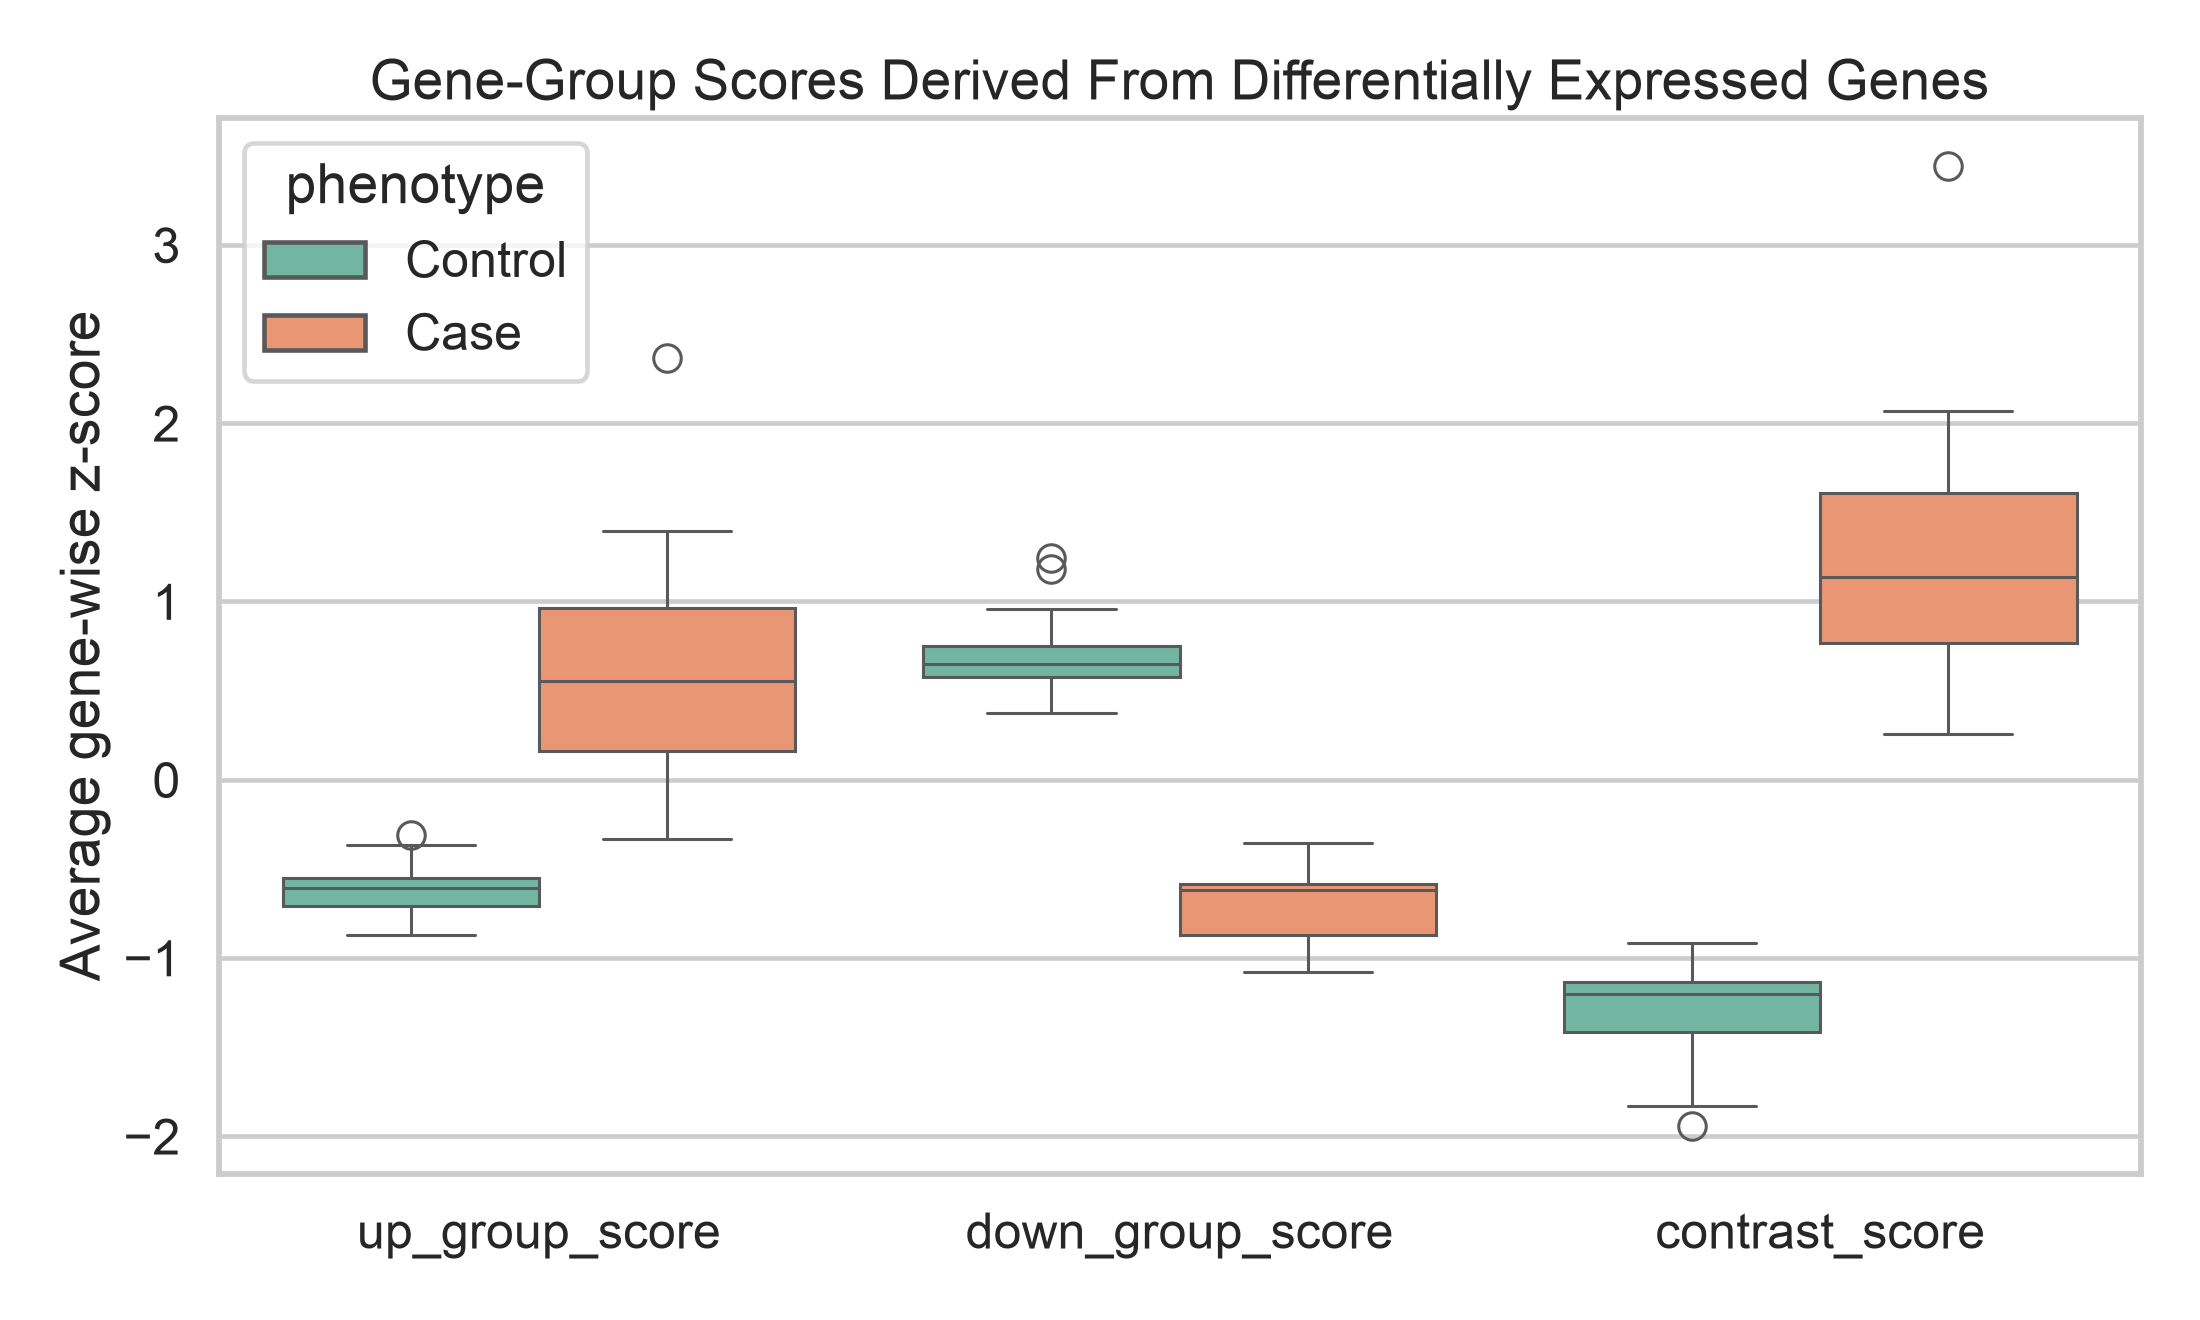
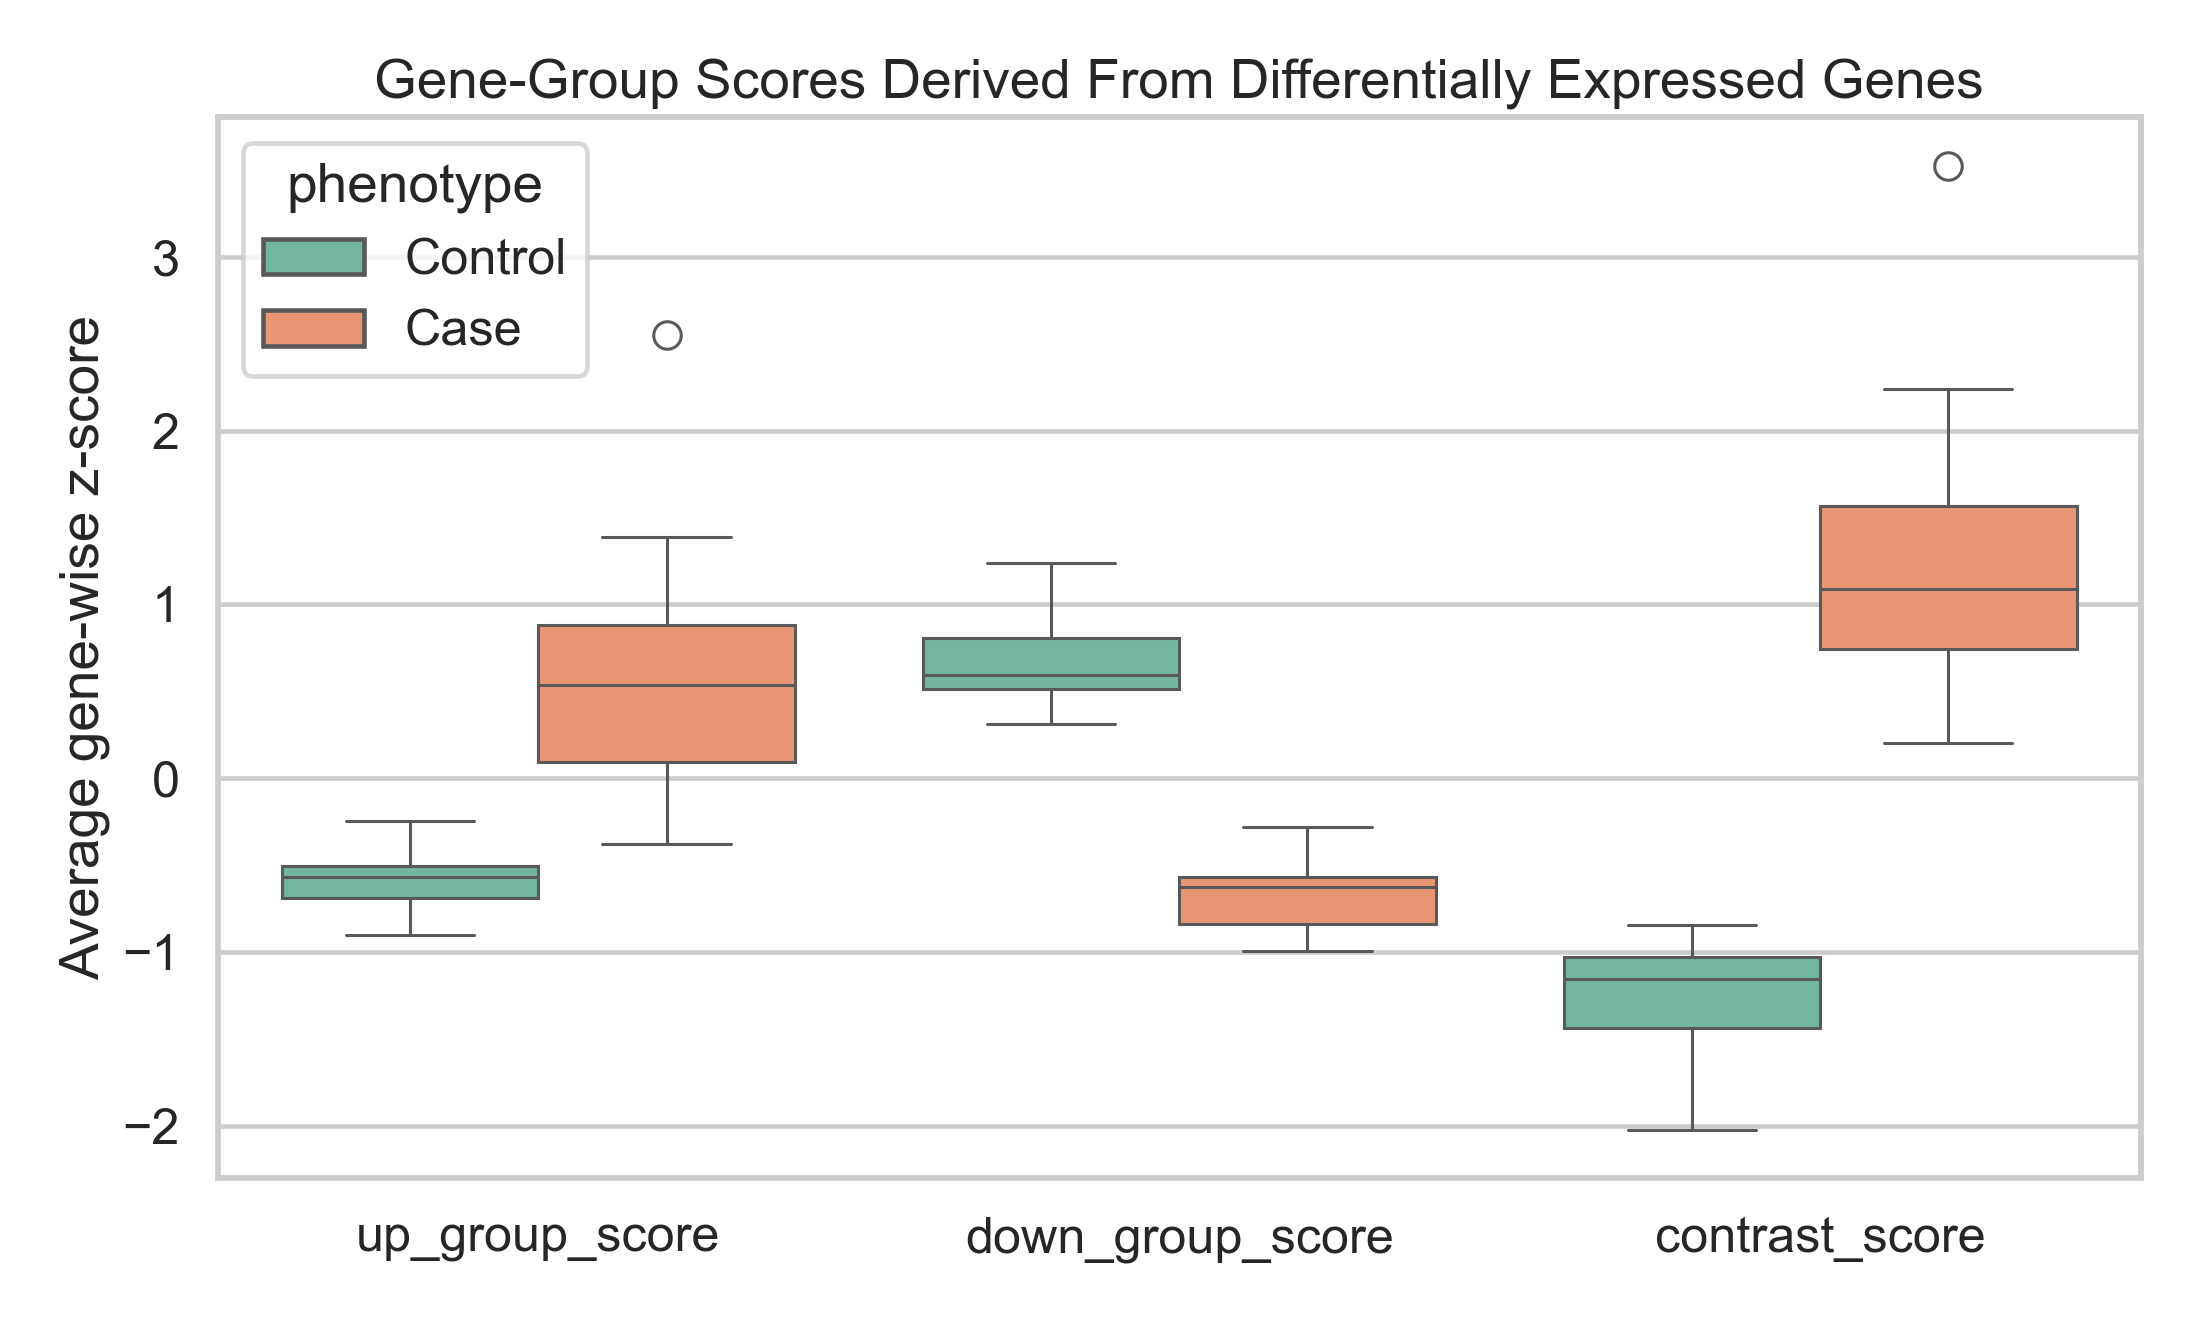
GSE38206 expression analysis results

diff --git a/PBMC/GSE38206/main.py b/PBMC/GSE38206/main.py
@@ -20,42 +20,42 @@ from analyze_cell_population_proxies import run_cell_proxy_analysis
 from run_qc_normalize_r import run_qc_normalization
 
 mapping_text = """
-GSM936718	S_PBMC_P1-0w_rep1
-GSM936719	S_PBMC_P1-8w_rep1
-GSM936720	S_PBMC_P2-0w_rep1
-GSM936721	S_PBMC_P2-8w_rep1
-GSM936722	S_PBMC_P3-0w_rep1
-GSM936723	S_PBMC_P3-8w_rep1
-GSM936724	S_PBMC_P4-0w_rep1
-GSM936725	S_PBMC_P4-8w_rep1
-GSM936726	S_PBMC_P5-0w_rep1
-GSM936727	S_PBMC_P5-8w_rep1
-GSM936728	S_PBMC_P6-0w_rep1
-GSM936729	S_PBMC_P6-8w_rep1
-GSM936730	S_PBMC_P7-0w_rep1
-GSM936731	S_PBMC_P7-8w_rep1
-GSM936732	S_PBMC_P8-0w_rep1
-GSM936733	S_PBMC_P8-8w_rep1
-GSM936734	S_PBMC_P9-0w_rep1
-GSM936735	S_PBMC_P9-8w_rep1
-GSM936736	S_PBMC_C1-0w_rep1
-GSM936737	S_PBMC_C1-8w_rep1
-GSM936738	S_PBMC_C2-0w_rep1
-GSM936739	S_PBMC_C2-8w_rep1
-GSM936740	S_PBMC_C3-0w_rep1
-GSM936741	S_PBMC_C3-8w_rep1
-GSM936742	S_PBMC_C4-0w_rep1
-GSM936743	S_PBMC_C4-8w_rep1
-GSM936744	S_PBMC_C5-0w_rep1
-GSM936745	S_PBMC_C5-8w_rep1
-GSM936746	S_PBMC_C6-0w_rep1
-GSM936747	S_PBMC_C6-8w_rep1
-GSM936748	S_PBMC_C7-0w_rep1
-GSM936749	S_PBMC_C7-8w_rep1
-GSM936750	S_PBMC_C8-0w_rep1
-GSM936751	S_PBMC_C8-8w_rep1
-GSM936752	S_PBMC_C9-0w_rep1
-GSM936753	S_PBMC_C9-8w_rep1
+GSM936718	PBMC_P1-0w_rep1
+GSM936719	PBMC_P1-8w_rep1
+GSM936720	PBMC_P2-0w_rep1
+GSM936721	PBMC_P2-8w_rep1
+GSM936722	PBMC_P3-0w_rep1
+GSM936723	PBMC_P3-8w_rep1
+GSM936724	PBMC_P4-0w_rep1
+GSM936725	PBMC_P4-8w_rep1
+GSM936726	PBMC_P5-0w_rep1
+GSM936727	PBMC_P5-8w_rep1
+GSM936728	PBMC_P6-0w_rep1
+GSM936729	PBMC_P6-8w_rep1
+GSM936730	PBMC_P7-0w_rep1
+GSM936731	PBMC_P7-8w_rep1
+GSM936732	PBMC_P8-0w_rep1
+GSM936733	PBMC_P8-8w_rep1
+GSM936734	PBMC_P9-0w_rep1
+GSM936735	PBMC_P9-8w_rep1
+GSM936736	PBMC_C1-0w_rep1
+GSM936737	PBMC_C1-8w_rep1
+GSM936738	PBMC_C2-0w_rep1
+GSM936739	PBMC_C2-8w_rep1
+GSM936740	PBMC_C3-0w_rep1
+GSM936741	PBMC_C3-8w_rep1
+GSM936742	PBMC_C4-0w_rep1
+GSM936743	PBMC_C4-8w_rep1
+GSM936744	PBMC_C5-0w_rep1
+GSM936745	PBMC_C5-8w_rep1
+GSM936746	PBMC_C6-0w_rep1
+GSM936747	PBMC_C6-8w_rep1
+GSM936748	PBMC_C7-0w_rep1
+GSM936749	PBMC_C7-8w_rep1
+GSM936750	PBMC_C8-0w_rep1
+GSM936751	PBMC_C8-8w_rep1
+GSM936752	PBMC_C9-0w_rep1
+GSM936753	PBMC_C9-8w_rep1
 """
 
 
@@ -95,6 +95,8 @@ run_expression_analysis(
     case_label_keywords="case",
     control_label="Control",
     case_label="Case",
+    control_prefix="PBMC_C",
+    case_prefix="PBMC_P",
 )
 
 run_cell_proxy_analysis(
@@ -108,6 +110,24 @@ run_cell_proxy_analysis(
     case_label_keywords="case",
     control_label="Control",
     case_label="Case",
+    control_prefix="PBMC_C",
+    case_prefix="PBMC_P",
+)
+
+# to see with neutrophil in PBMC
+run_cell_proxy_analysis(
+    input_file=results_dir / "deduplicated_expression_dataset.csv",
+    metadata_file=TEST_DIR / "processed_data" / "sample_metadata.csv",
+    output_dir=TEST_DIR / "cell_population_proxies_neutrophil",
+    markers_csv=PROJECT_ROOT / "markers" / "blood_cell_markers.csv",
+    metadata_sample_column="analysis_sample",
+    metadata_phenotype_column="depression_status",
+    control_label_keywords="control",
+    case_label_keywords="case",
+    control_label="Control",
+    case_label="Case",
+    control_prefix="PBMC_C",
+    case_prefix="PBMC_P",
 )
 
 print(f"Expression output: {expression_csv}")
